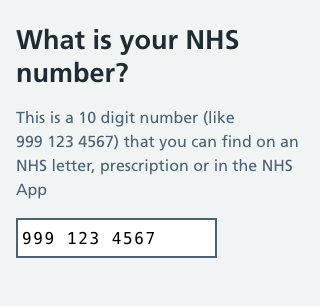
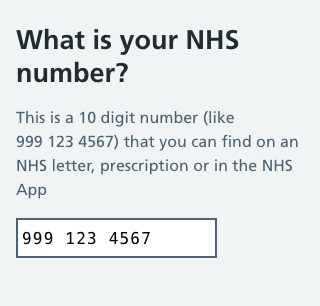
Merge pull request #1962 from nhsuk/add-code-modifier-class
[v10] Add monospace font modifier

Pull request: [v10] Add code and monospace font utilities
## Description

My service displays NHS number and something called an accession number, and I wanted to display these in a fixed width font. We tried using `.nhsuk-input--code` but this is meant for text inputs and excessively spaces letters, especially spaces.

Chatting with @user it felt like it could be helpful to have a general purpose modifier for this.

I've set it to to:
* use monospace font (like the `.nhsuk-input--code`)
* slightly increase default letter spacing
* slightly reduce word spacing (width of spaces)

Screenshot:
<img width="675" height="90" alt="Screenshot 2026-06-04 at 14 33 13" src="https://github.com/user-attachments/assets/d0f14538-48f4-4794-aee0-279c01a586bf" />

I also took the opportunity to update the example NHS numbers in the frontend app to the same example from the design system, and one explicitly starting with 9, which is a reserved range.

~At the suggestion of @user I've made an internal `@user nhsuk-font-monospace()` mixin and used it in this new modifier and `.nhsuk-input--code`.~

**Update:** We've split out two new sets of utilities:

* Utility class `nhsuk-u-font-code` with Sass mixin `nhsuk-font-code`
* Utility class `nhsuk-u-font-monospace` with Sass mixin `nhsuk-font-monospace`

With changes to the `nhsuk-input--code` modifier limited to tighter letter and word spacing

---

### Sass deprecations

I've updated this PR to include Sass deprecations to prefer ~`nhsuk-typography-*`~ `nhsuk-font-*`
[…]

Changed region(s): [[0.0938, 0.7353, 0.3125, 0.8235], [0.3438, 0.7353, 0.5, 0.8235]]

diff --git a/packages/nhsuk-frontend/src/nhsuk/core/tools/_typography.scss b/packages/nhsuk-frontend/src/nhsuk/core/tools/_typography.scss
@@ -45,7 +45,7 @@
 /// @param {Boolean} $important [false] - Whether to mark declarations as
 ///   `!important`. Generally Used to create override classes.
 
-@mixin nhsuk-typography-weight-normal($important: false) {
+@mixin nhsuk-font-weight-normal($important: false) {
   @if $important == true {
     font-weight: $nhsuk-font-weight-normal !important;
   } @else {
@@ -53,17 +53,72 @@
   }
 }
 
+/// Normal typography weight (deprecated)
+///
+/// @alias nhsuk-font-weight-normal
+/// @deprecated To be removed in v11.0, replaced by nhsuk-font-weight-normal
+
+@mixin nhsuk-typography-weight-normal($important: false) {
+  @include nhsuk-warning(
+    "nhsuk-typography-weight",
+    "nhsuk-typography-weight-normal is deprecated. Use nhsuk-font-weight-normal instead."
+  );
+  @include nhsuk-font-weight-normal($important);
+}
+
 /// Bold font weight
 ///
 /// @param {Boolean} $important [false] - Whether to mark declarations as
 ///   `!important`. Generally Used to create override classes.
 
-@mixin nhsuk-typography-weight-bold($important: false) {
+@mixin nhsuk-font-weight-bold($important: false) {
   @if $important == true {
     font-weight: $nhsuk-font-weight-bold !important;
   } @else {
     font-weight: $nhsuk-font-weight-bold;
   }
+}
+
+/// Bold typography weight (deprecated)
+///
+/// @alias nhsuk-font-weight-bold
+/// @deprecated To be removed in v11.0, replaced by nhsuk-font-weight-bold
+
+@mixin nhsuk-typography-weight-bold($important: false) {
+  @include nhsuk-warning(
+    "nhsuk-typography-weight",
+    "nhsuk-typography-weight-bold is deprecated. Use nhsuk-font-weight-bold instead."
+  );
+  @include nhsuk-font-weight-bold($important);
+}
+
+/// Code font helper
+///
+/// Used for codes and sequences
+///
+/// @param {Boolean} $important [false] - Whether to mark declarations as
+///   `!important`. Generally used to create override classes.
+
+@mixin nhsuk-font-code($important: false) {
+  @include nhsuk-font-monospace($important);
+  letter-spacing: 0.075em;
+  word-spacing: -0.5ch;
+}
+
+/// Monospace font helper
+///
+/// @param {Boolean} $important [false] - Whether to mark declarations as
+///   `!important`. Generally used to create override classes.
+
+@mixin nhsuk-font-monospace($important: false) {
+  $font-family-value: $nhsuk-code-font;
+
+  @if $important == true {
+    $font-family-value: $font-family-value !important;
+  }
+
+  font-family: $font-family-value;
+  font-size-adjust: 0.5;
 }
 
 /// Word break helper
@@ -291,9 +346,9 @@
 @mixin nhsuk-font($size, $weight: normal, $line-height: false) {
   & {
     @if $weight == normal {
-      @include nhsuk-typography-weight-normal;
+      @include nhsuk-font-weight-normal;
     } @else if $weight == bold {
-      @include nhsuk-typography-weight-bold;
+      @include nhsuk-font-weight-bold;
     }
   }
 

diff --git a/packages/nhsuk-frontend/src/nhsuk/core/styles/_typography.scss b/packages/nhsuk-frontend/src/nhsuk/core/styles/_typography.scss
@@ -16,9 +16,8 @@
 %nhsuk-heading-xl {
   display: block;
   margin-top: 0;
-  font-weight: $nhsuk-font-weight-bold;
 
-  @include nhsuk-font-size(48);
+  @include nhsuk-font(48, $weight: bold);
   @include nhsuk-responsive-margin(7, "bottom");
 }
 
@@ -30,9 +29,8 @@ h1,
 %nhsuk-heading-l {
   display: block;
   margin-top: 0;
-  font-weight: $nhsuk-font-weight-bold;
 
-  @include nhsuk-font-size(36);
+  @include nhsuk-font(36, $weight: bold);
   @include nhsuk-responsive-margin(4, "bottom");
 }
 
@@ -44,9 +42,8 @@ h2,
 %nhsuk-heading-m {
   display: block;
   margin-top: 0;
-  font-weight: $nhsuk-font-weight-bold;
 
-  @include nhsuk-font-size(26);
+  @include nhsuk-font(26, $weight: bold);
   @include nhsuk-responsive-margin(4, "bottom");
 }
 
@@ -58,9 +55,8 @@ h3,
 %nhsuk-heading-s {
   display: block;
   margin-top: 0;
-  font-weight: $nhsuk-font-weight-bold;
 
-  @include nhsuk-font-size(22);
+  @include nhsuk-font(22, $weight: bold);
   @include nhsuk-responsive-margin(4, "bottom");
 }
 
@@ -72,9 +68,8 @@ h4,
 %nhsuk-heading-xs {
   display: block;
   margin-top: 0;
-  font-weight: $nhsuk-font-weight-bold;
 
-  @include nhsuk-font-size(19);
+  @include nhsuk-font(19, $weight: bold);
   @include nhsuk-responsive-margin(4, "bottom");
 }
 
@@ -86,9 +81,8 @@ h5,
 %nhsuk-heading-xxs {
   display: block;
   margin-top: 0;
-  font-weight: $nhsuk-font-weight-bold;
 
-  @include nhsuk-font-size(19);
+  @include nhsuk-font(19, $weight: bold);
   @include nhsuk-responsive-margin(4, "bottom");
 }
 
@@ -240,7 +234,7 @@ h1 + .nhsuk-lede-text--small {
 
 strong,
 b {
-  font-weight: $nhsuk-font-weight-bold;
+  @include nhsuk-font-weight-bold;
 }
 
 @include nhsuk-media-query($media-type: print) {
@@ -306,9 +300,8 @@ code,
 samp,
 kbd,
 var {
-  font-family: $nhsuk-code-font;
+  @include nhsuk-font-monospace;
   font-size: inherit;
-  font-size-adjust: 0.5;
 }
 
 samp,

diff --git a/packages/nhsuk-frontend/src/nhsuk/lib/highlighter/styles/index.scss b/packages/nhsuk-frontend/src/nhsuk/lib/highlighter/styles/index.scss
@@ -1,5 +1,6 @@
 @use "sass:color";
 @use "../../../core/settings" as *;
+@use "../../../core/tools" as *;
 @use "../../../core/helpers" as *;
 
 $nhsuk-code-comment-colour: #545555;
@@ -39,7 +40,7 @@ $nhsuk-code-addition-colour: nhsuk-shade(nhsuk-colour("green"), 8%);
 .nhsuk-code__selector-tag,
 .nhsuk-code__subst {
   color: $nhsuk-code-keyword-colour;
-  font-weight: bold;
+  @include nhsuk-font-weight-bold;
 
   .nhsuk-code--reverse & {
     color: _reverse-colour($nhsuk-code-keyword-colour);
@@ -71,7 +72,7 @@ $nhsuk-code-addition-colour: nhsuk-shade(nhsuk-colour("green"), 8%);
 .nhsuk-code__section,
 .nhsuk-code__selector-id {
   color: $nhsuk-code-title-colour;
-  font-weight: bold;
+  @include nhsuk-font-weight-bold;
 
   .nhsuk-code--reverse & {
     color: _reverse-colour($nhsuk-code-title-colour);
@@ -79,13 +80,13 @@ $nhsuk-code-addition-colour: nhsuk-shade(nhsuk-colour("green"), 8%);
 }
 
 .nhsuk-code__subst {
-  font-weight: normal;
+  @include nhsuk-font-weight-normal;
 }
 
 .nhsuk-code__type,
 .nhsuk-code__class .nhsuk-code__title {
   color: $nhsuk-code-type-colour;
-  font-weight: bold;
+  @include nhsuk-font-weight-bold;
 
   .nhsuk-code--reverse & {
     color: _reverse-colour($nhsuk-code-type-colour);
@@ -96,7 +97,7 @@ $nhsuk-code-addition-colour: nhsuk-shade(nhsuk-colour("green"), 8%);
 .nhsuk-code__name,
 .nhsuk-code__attribute {
   color: $nhsuk-code-tag-colour;
-  font-weight: normal;
+  @include nhsuk-font-weight-normal;
 
   .nhsuk-code--reverse & {
     color: _reverse-colour($nhsuk-code-tag-colour);
@@ -132,7 +133,7 @@ $nhsuk-code-addition-colour: nhsuk-shade(nhsuk-colour("green"), 8%);
 
 .nhsuk-code__meta {
   color: $nhsuk-code-meta-colour;
-  font-weight: bold;
+  @include nhsuk-font-weight-bold;
 
   .nhsuk-code--reverse & {
     color: _reverse-colour($nhsuk-code-meta-colour);
@@ -179,5 +180,5 @@ $nhsuk-code-addition-colour: nhsuk-shade(nhsuk-colour("green"), 8%);
 }
 
 .nhsuk-code__strong {
-  font-weight: bold;
+  @include nhsuk-font-weight-bold;
 }

diff --git a/packages/nhsuk-frontend/src/nhsuk/core/utilities/_typography.scss b/packages/nhsuk-frontend/src/nhsuk/core/utilities/_typography.scss
@@ -26,14 +26,24 @@
   }
 }
 
+// Font family
+
+.nhsuk-u-font-code {
+  @include nhsuk-font-code($important: true);
+}
+
+.nhsuk-u-font-monospace {
+  @include nhsuk-font-monospace($important: true);
+}
+
 // Weights
 
 .nhsuk-u-font-weight-normal {
-  @include nhsuk-typography-weight-normal($important: true);
+  @include nhsuk-font-weight-normal($important: true);
 }
 
 .nhsuk-u-font-weight-bold {
-  @include nhsuk-typography-weight-bold($important: true);
+  @include nhsuk-font-weight-bold($important: true);
 }
 
 // Typography helpers

diff --git a/packages/nhsuk-frontend/src/nhsuk/components/details/_index.scss b/packages/nhsuk-frontend/src/nhsuk/components/details/_index.scss
@@ -67,7 +67,7 @@ $expander-icon-size: $nhsuk-expander-icon-size;
 
     .nhsuk-details__summary-text {
       display: block;
-      font-weight: $nhsuk-font-weight-bold;
+      @include nhsuk-font-weight-bold;
       @include nhsuk-responsive-margin(4, "bottom");
     }
   }
@@ -256,8 +256,7 @@ $expander-icon-size: $nhsuk-expander-icon-size;
 
       .nhsuk-details__summary-text {
         display: block;
-        font-weight: $nhsuk-font-weight-bold;
-        @include nhsuk-font-size(26);
+        @include nhsuk-font(26, $weight: bold);
         @include nhsuk-responsive-margin(4, "bottom");
       }
     }

diff --git a/packages/nhsuk-frontend/src/nhsuk/components/input/_index.scss b/packages/nhsuk-frontend/src/nhsuk/components/input/_index.scss
@@ -163,8 +163,9 @@
   // Codes and sequences
 
   .nhsuk-input--code {
-    font-family: $nhsuk-code-font;
-    letter-spacing: 0.1em;
+    @include nhsuk-font-code;
+    font-size-adjust: none;
+    word-spacing: 0;
   }
 
   // The ex measurements are based on the number of W's that can fit inside the input

diff --git a/packages/nhsuk-frontend/src/nhsuk/components/fieldset/_index.scss b/packages/nhsuk-frontend/src/nhsuk/components/fieldset/_index.scss
@@ -50,7 +50,7 @@
   .nhsuk-fieldset__legend--l,
   .nhsuk-fieldset__legend--m {
     margin-bottom: nhsuk-spacing(3);
-    @include nhsuk-typography-weight-bold;
+    @include nhsuk-font-weight-bold;
   }
 
   .nhsuk-fieldset__legend--xl {
@@ -66,7 +66,7 @@
   }
 
   .nhsuk-fieldset__legend--s {
-    @include nhsuk-typography-weight-bold;
+    @include nhsuk-font-weight-bold;
   }
 
   // When the legend contains an H1, we want the H1 to inherit all styles from

diff --git a/packages/nhsuk-frontend/src/nhsuk/components/label/_index.scss b/packages/nhsuk-frontend/src/nhsuk/components/label/_index.scss
@@ -20,7 +20,7 @@
   .nhsuk-label--l,
   .nhsuk-label--m {
     margin-bottom: nhsuk-spacing(3);
-    @include nhsuk-typography-weight-bold;
+    @include nhsuk-font-weight-bold;
   }
 
   .nhsuk-label--xl {
@@ -36,7 +36,7 @@
   }
 
   .nhsuk-label--s {
-    @include nhsuk-typography-weight-bold;
+    @include nhsuk-font-weight-bold;
   }
 
   // When the label is nested inside a heading, override the heading so that it

diff --git a/packages/nhsuk-frontend/src/nhsuk/components/pagination/_index.scss b/packages/nhsuk-frontend/src/nhsuk/components/pagination/_index.scss
@@ -212,7 +212,7 @@
   .nhsuk-pagination--numbered .nhsuk-pagination__item--current {
     outline: 1px solid transparent;
     background-color: nhsuk-colour("blue");
-    @include nhsuk-typography-weight-bold;
+    @include nhsuk-font-weight-bold;
 
     .nhsuk-pagination__link {
       @include nhsuk-link-style-reverse;
@@ -225,7 +225,7 @@
 
   .nhsuk-pagination--numbered .nhsuk-pagination__item--ellipsis {
     color: $nhsuk-secondary-text-colour;
-    @include nhsuk-typography-weight-bold;
+    @include nhsuk-font-weight-bold;
 
     // Remove hover state for ellipsis items as they don't contain links
     &:not(:focus):hover {

diff --git a/packages/nhsuk-frontend/src/nhsuk/components/tables/_index.scss b/packages/nhsuk-frontend/src/nhsuk/components/tables/_index.scss
@@ -126,7 +126,7 @@
 
     .nhsuk-table__body {
       .nhsuk-table-responsive__heading {
-        @include nhsuk-typography-weight-bold;
+        @include nhsuk-font-weight-bold;
         padding-right: nhsuk-spacing(3);
         text-align: left; // [7]
       }
@@ -157,7 +157,7 @@
 
       @include nhsuk-media-query($until: desktop) {
         .nhsuk-table__row th {
-          font-weight: $nhsuk-font-weight-normal;
+          @include nhsuk-font-weight-normal;
         }
 
         .nhsuk-table__row th,

diff --git a/packages/nhsuk-frontend/src/nhsuk/components/code/_index.scss b/packages/nhsuk-frontend/src/nhsuk/components/code/_index.scss
@@ -33,7 +33,7 @@
 
   .nhsuk-code__container,
   .nhsuk-code__content {
-    font-family: $nhsuk-code-font;
+    @include nhsuk-font-monospace;
   }
 
   .nhsuk-code__container {

diff --git a/packages/nhsuk-frontend/src/nhsuk/components/contents-list/_index.scss b/packages/nhsuk-frontend/src/nhsuk/components/contents-list/_index.scss
@@ -32,6 +32,6 @@
   }
 
   .nhsuk-contents-list__current {
-    font-weight: $nhsuk-font-weight-bold;
+    @include nhsuk-font-weight-bold;
   }
 }